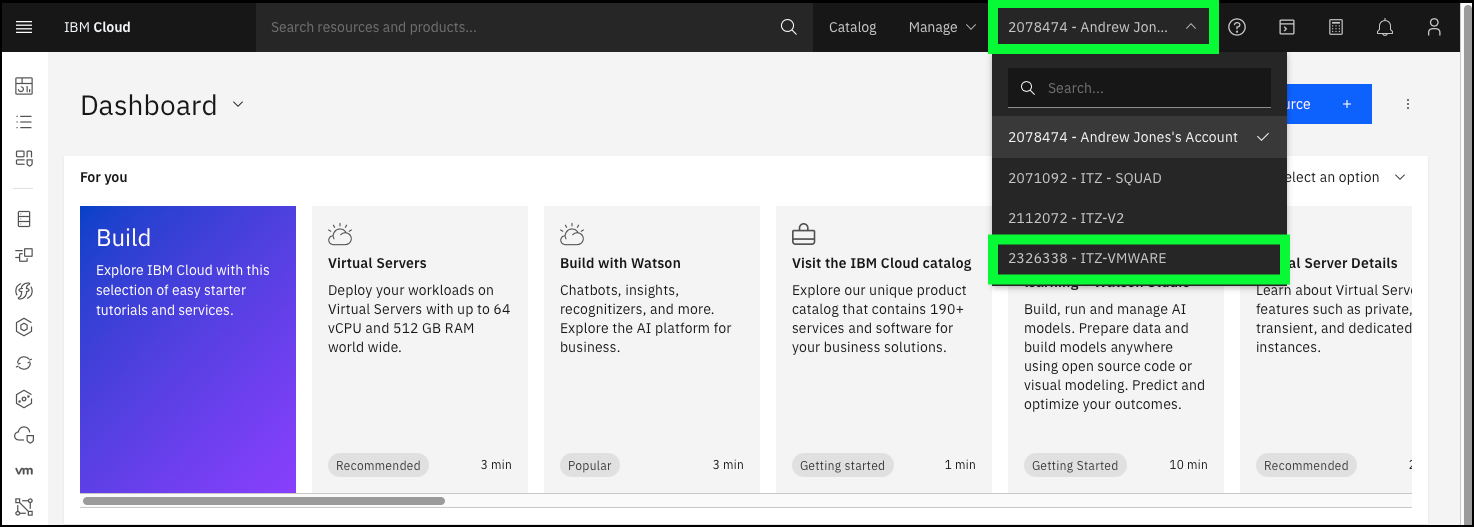
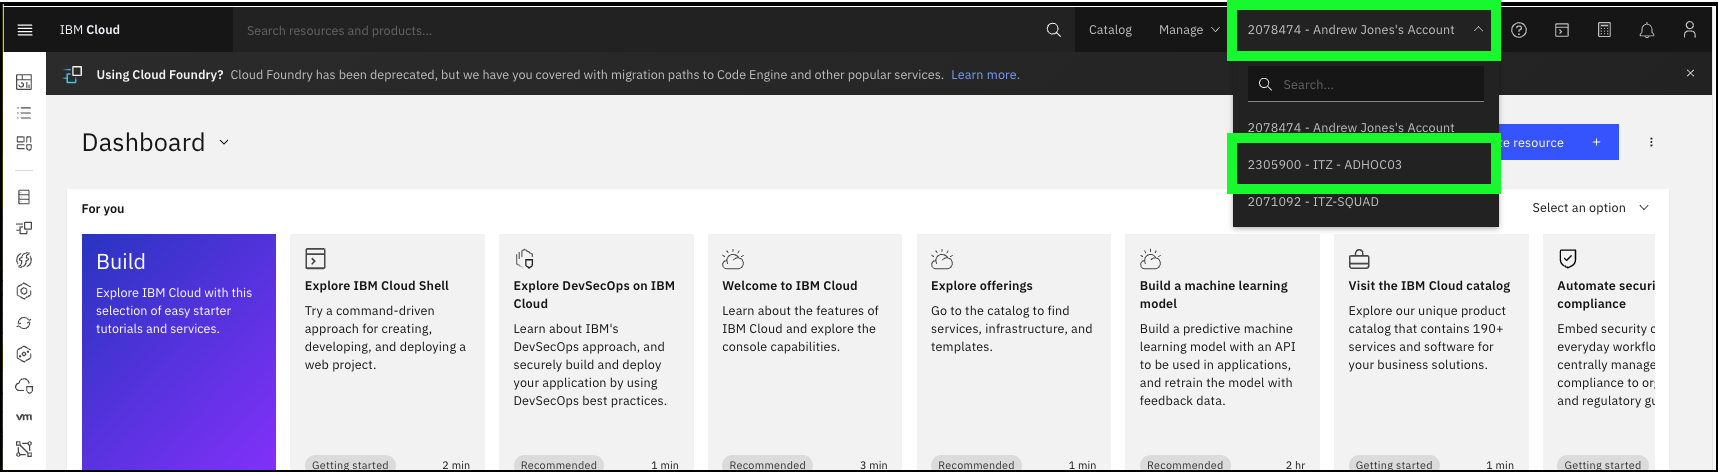
update images and variables

diff --git a/docs/index.md b/docs/index.md
@@ -5,7 +5,17 @@ Welcome to the demonstration guide for the {{learningplan.Name}} learning plan. 
 - IBMers: <a href="{{level2learningplan.YLurl}}" target="_blank">{{level2learningplan.YLurl}}</a>
 - Business Partners: <a href="{{level2learningplan.BPurl}} target="_blank">{{level2learningplan.BPurl}}</a>
 
-Every good client demonstration should tell a story the client can relate to. This may be a particular pain point the client is experiencing, or a common industry scenario. SCC includes both industry specific (e.g. Financial Services), cross industry controls, and the ability to build custom controls. When performing an actual client demonstration, sellers should focus on the controls most important to the client.
+!!! Important
+
+    In addition to the Level 2 training, all sellers and technical sellers are encouraged to read the <a href="https://cloud.ibm.com/docs/security-compliance?topic=security-compliance-getting-started&interface=ui" target="_blank>SCC documentation</a>. The documentation contains a wealth of information that is not covered in the Level 2 or Level 3 training including topics like:
+
+    - SCC's underlying architecture. Did you know SCC is a multi-tenant solution?
+    - High availability (HA) and disaster recover (DR)
+    - Protecting SCC resources with context-based restrictions
+
+
+
+Every good client demonstration should tell a story the client can relate to. This may be a particular pain point the client is experiencing, or a common industry scenario. SCC includes both industry specific (e.g. Financial Services), cross industry controls, and the ability to build custom controls. When performing an actual client demonstration, sellers should focus on the controls most important to the client. Additionally, if you know what IBM Cloud resources the client is leveraging, validate if those resources can be evaluated by SCC. Find the current list of resources that can be evaluated by SCC <a href="https://cloud.ibm.com/docs/security-compliance?topic=security-compliance-scannable-components&interface=ui" target="_blank">here</a>.
 
 ## Key SCC Concepts
 Before continuing review the following key concepts associated with SCC. Additional details on these and other SCC-related concepts can be found <a href="https://cloud.ibm.com/docs/security-compliance?topic=security-compliance-posture-management" target="_blank">here</a>.

diff --git a/docs/demo/Step-by-step.md b/docs/demo/Step-by-step.md
@@ -1,0 +1,32 @@
+
+
+<!-- Should add a section for tech sales to cover IAM settings, use demo environment as an example. 
+https://cloud.ibm.com/docs/security-compliance?topic=security-compliance-assign-roles
+
+also
+https://cloud.ibm.com/docs/security-compliance?topic=security-compliance-access-management&interface=ui
+-->
+
+<!-- mention event notifications https://cloud.ibm.com/docs/security-compliance?topic=security-compliance-event-notifications&interface=ui -->
+
+<!-- can we use this as the flow: https://cloud.ibm.com/docs/security-compliance?topic=security-compliance-scan-resources&interface=ui -->
+
+
+<!-- for reading dashboard, refer to:https://cloud.ibm.com/docs/security-compliance?topic=security-compliance-results&interface=ui
+
+
+Success rate
+    The rate at which your configurations pass the evaluation that is conducted. Note: The number of evaluations conducted does not always match the number of billable evaluations, as there is no charge for assessments evaluated as unable to perform. Be sure to look for the billable evaluations in each scan result if you need to estimate your cost.
+Total controls
+    The total number of controls that have been evaluated in the past 30 days.
+Total evaluations
+    The total number of evaluations that have been run in the past 30 days. An evaluation is the check of one resource against one assessment.  -->
+
+    <!-- if we split out a tech sales section, consider talking about multi-tenant aspect of SCC and refer them to this documentation: https://cloud.ibm.com/docs/security-compliance?topic=security-compliance-compute-isolation&interface=ui 
+    
+    additionally, integration with Activity Tracker: 
+    https://cloud.ibm.com/docs/security-compliance?topic=security-compliance-at_events&interface=ui
+   
+   and context-based restrictions: https://cloud.ibm.com/docs/security-compliance?topic=security-compliance-cbr&interface=ui
+   
+    -->

diff --git a/docs/env/Create a reservation.md b/docs/env/Create a reservation.md
@@ -5,11 +5,11 @@ To access the the pre-provisioned IBM Cloud Security and Compliance Center (SCC)
 
 1. Open a web browser to the **IBM Cloud for VMware Solutions - Level 3** environment reservation page.
 
-<a href="https://techzone.ibm.com/my/reservations/create/???" target="_blank">Create a reservation</a>.
+   <a href="https://techzone.ibm.com/my/reservations/create/???" target="_blank">Create a reservation</a>.
 
-Follow the authentication prompts using your IBM Cloud identification (ID). These steps will vary for IBMers and Business Partners and are not illustrated here.
+   Follow the authentication prompts using your IBM Cloud identification (ID). These steps will vary for IBMers and Business Partners and are not illustrated here.
 
-Note: you may need to accept the latest ITZ terms and conditions before proceeding.
+   Note: you may need to accept the latest ITZ terms and conditions before proceeding.
 
 2. Click the **Reserve now** radio button.
 3. Click the **Practice / Self Education** tile.

diff --git a/docs/env/Access the environment.md b/docs/env/Access the environment.md
@@ -23,7 +23,7 @@ Note: if you do not see a notification like this, then, in most cases, your ITZ 
 
 ![](_attachments/joinAccount.png)
 
-6. Click the **account selection** drop-down menu and select the **{{itz.account}}** account.
+6. Click the **account selection** drop-down menu and select the **{{itz.CloudAccount}}** account.
 
 ![](_attachments/switchAccount.png)
 

diff --git a/docs/env/Overview.md b/docs/env/Overview.md
@@ -10,4 +10,4 @@ There are several advantages of leveraging a pre-provisioned SCC instance includ
     
     Please remember to delete any resources you provision as part of this learning plan!
 
-In the next chapter, learn how to make a reservation to the ITZ environment.
+In the next chapter, learn how to make a reservation for the ITZ environment.
